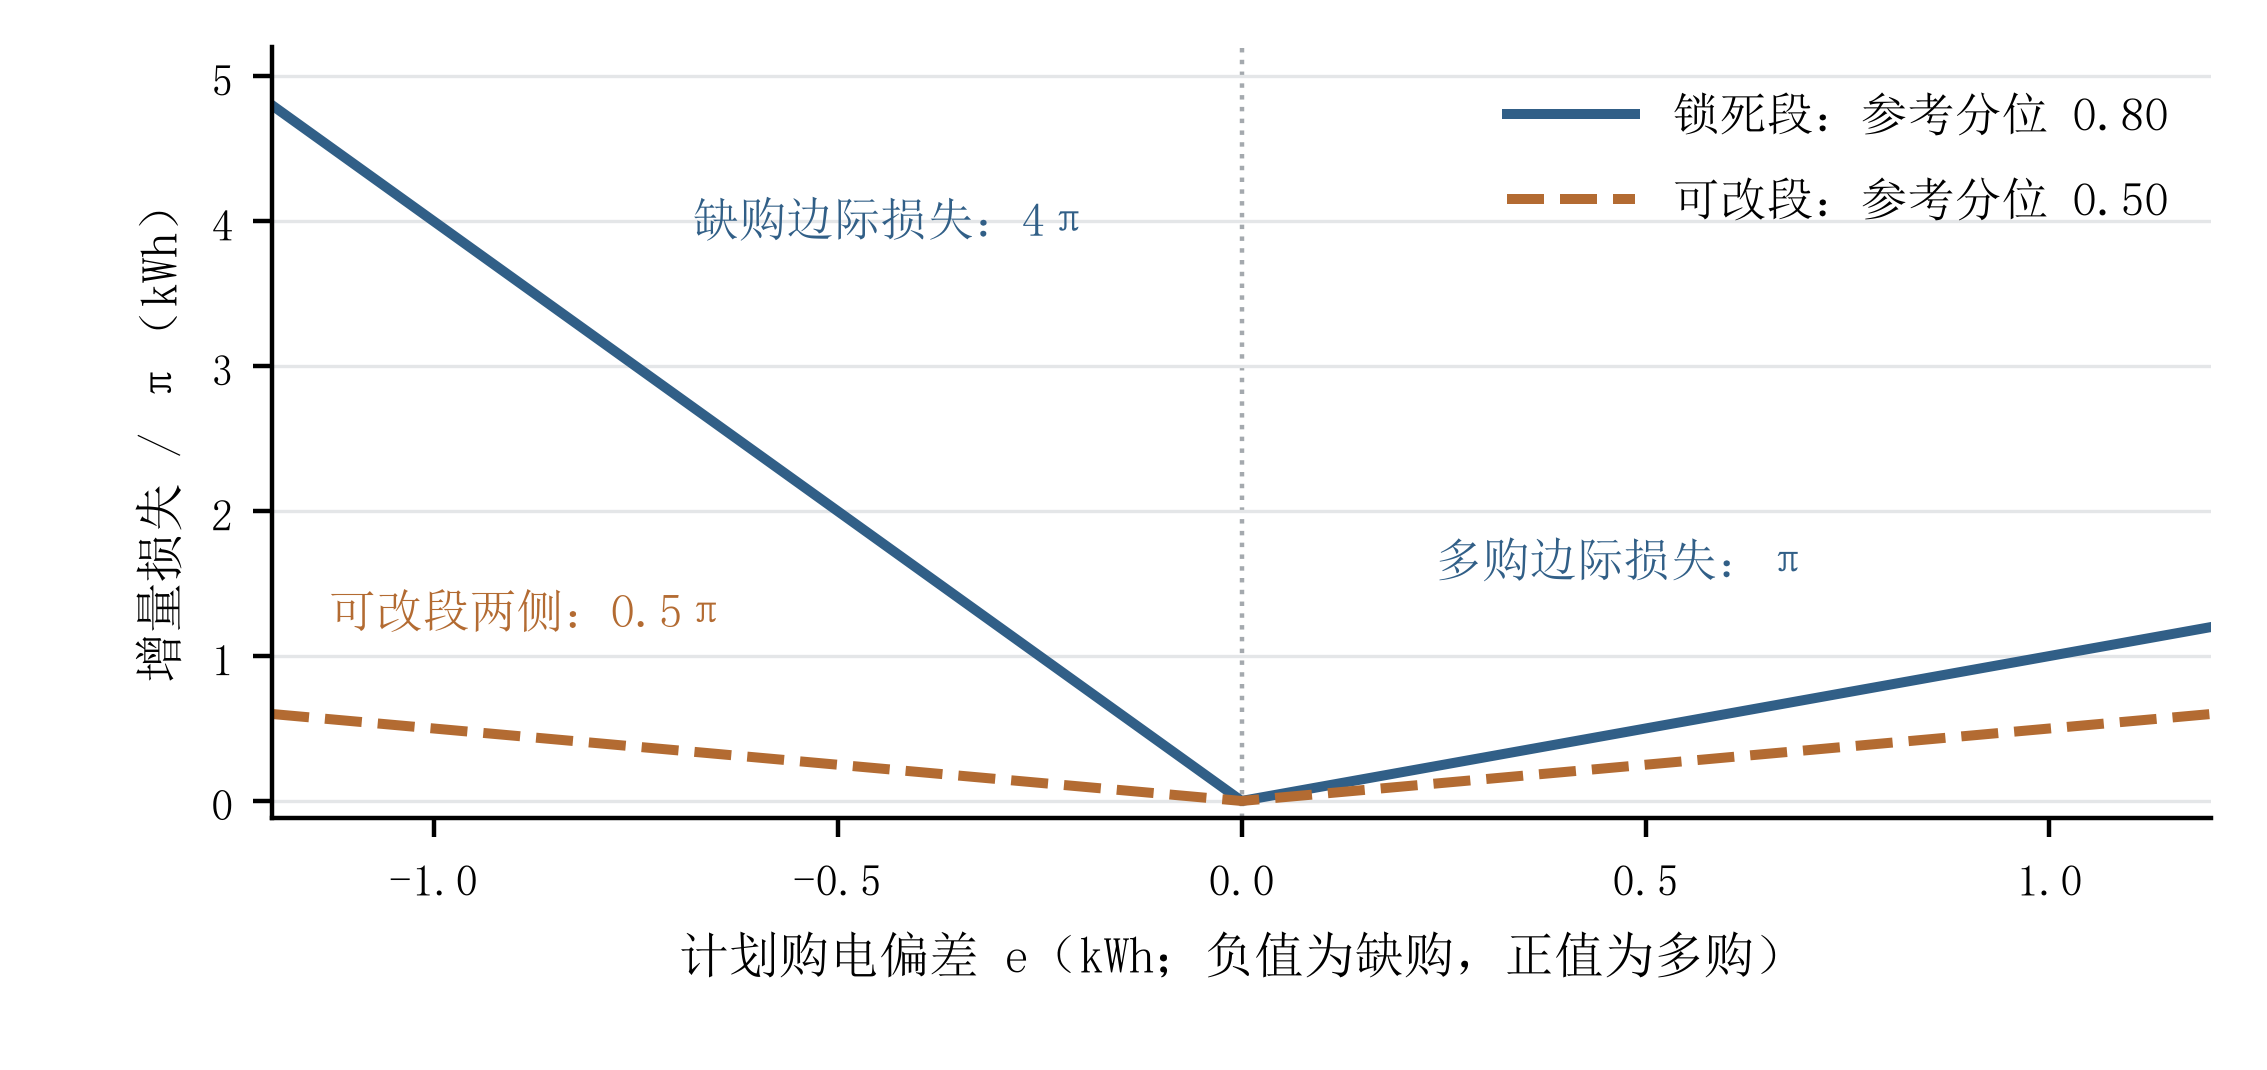
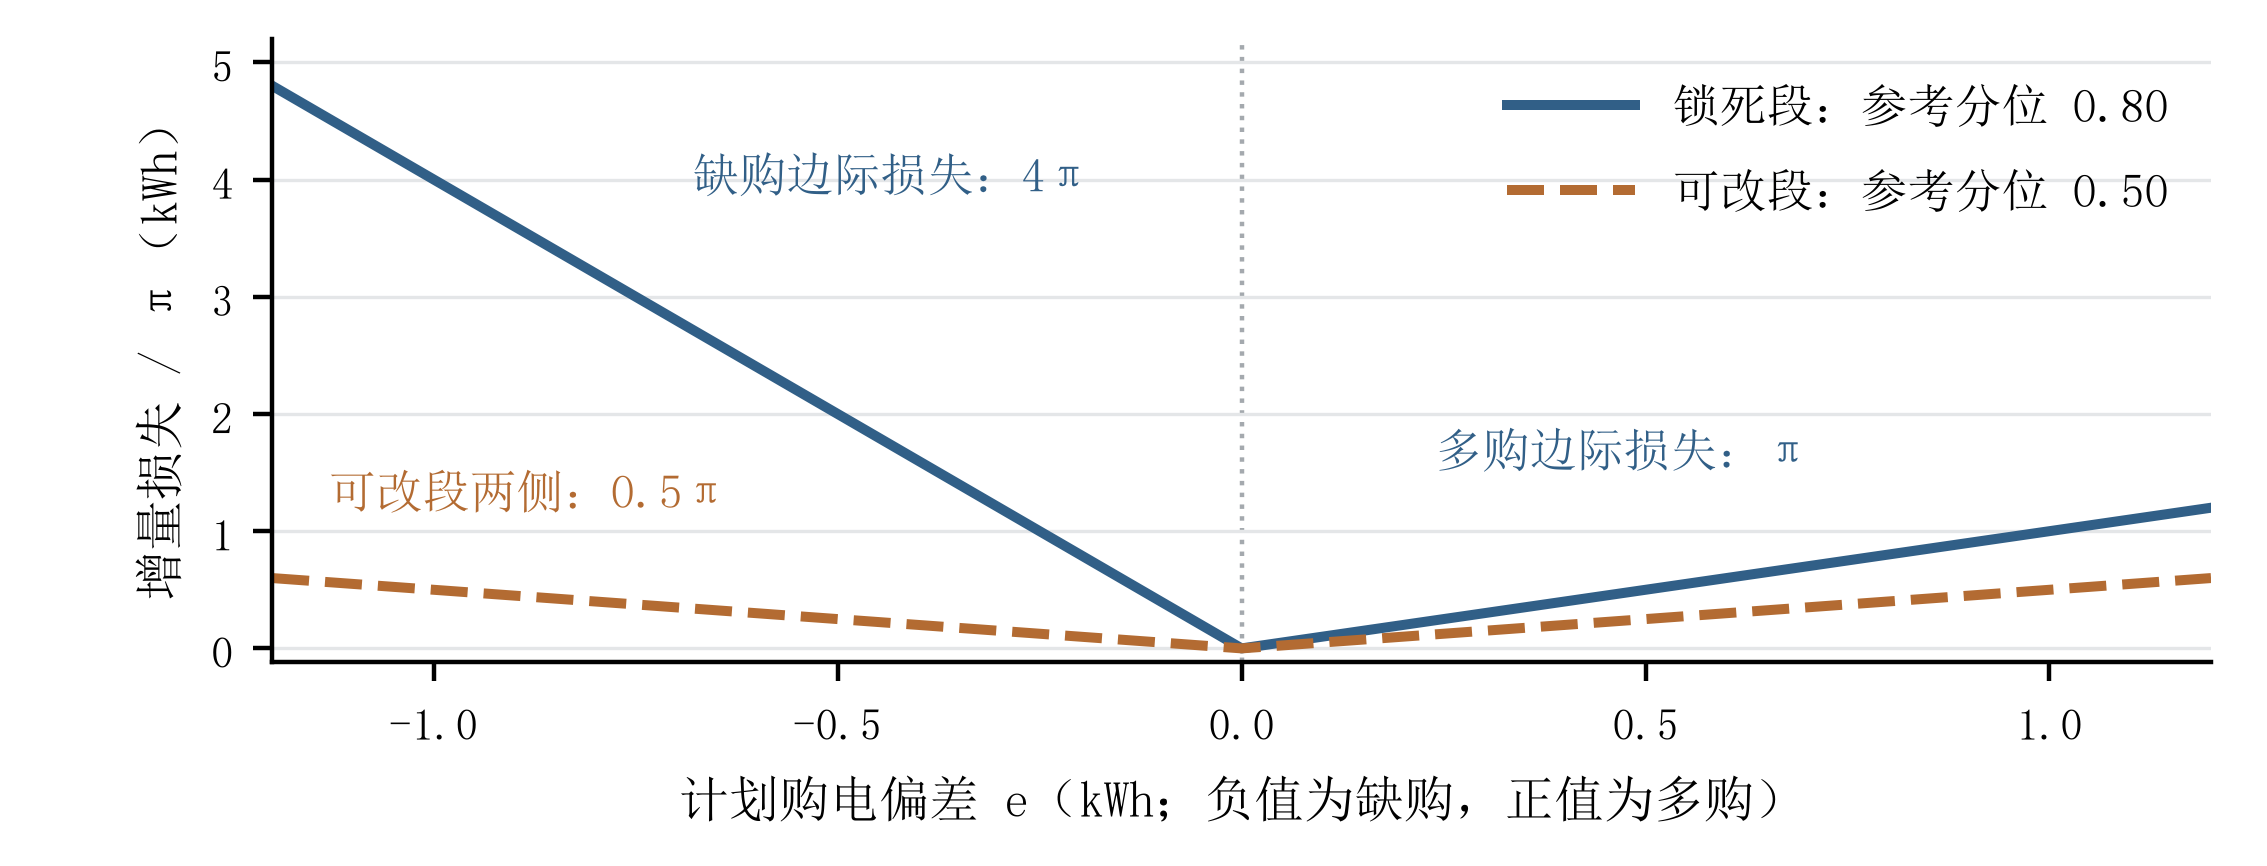
paper(Q3): compact figure explanation and final-size artwork

diff --git a/scripts/Q3/make_newsvendor_figure.py b/scripts/Q3/make_newsvendor_figure.py
@@ -17,7 +17,7 @@ import numpy as np
 
 
 ROOT = Path(__file__).resolve().parents[2]
-WIDTH_MM, HEIGHT_MM = 144, 68
+WIDTH_MM, HEIGHT_MM = 144, 55
 
 
 def build_figure():
